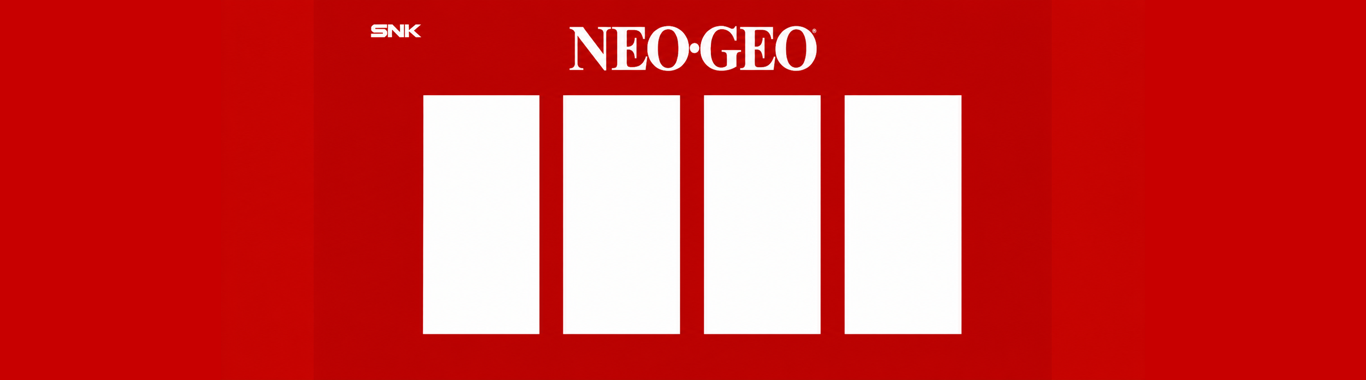
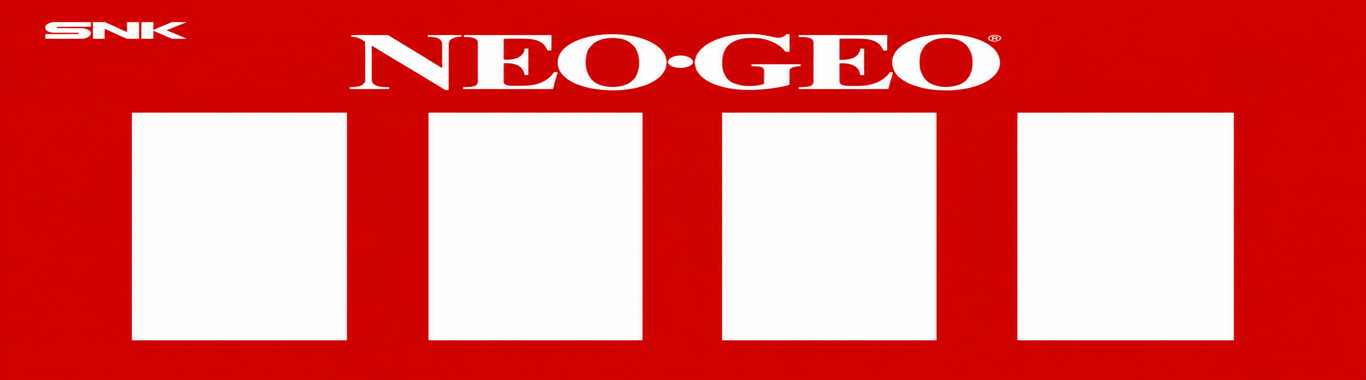
Widen Neo Geo four-slot artwork windows

diff --git a/marqueemark.py b/marqueemark.py
@@ -114,8 +114,8 @@ BUILTIN_LAYOUTS = {
                         "windows": [[1053, 36, 231, 306]]},
     "neogeo-four-slot": {"id": "neogeo-four-slot", "name": "Neo Geo 4 Slot", "base": "neogeo-four-slot.png",
                           "base_source": "builtin", "background_type": "image", "background_color": "#000000",
-                          "windows": [[424, 96, 114, 238], [564, 96, 114, 238],
-                                      [704, 96, 114, 238], [845, 96, 114, 238]]},
+                          "windows": [[132, 114, 213, 225], [430, 114, 212, 225],
+                                      [723, 114, 212, 225], [1019, 114, 213, 225]]},
     # A diagnostic, not a normal cabinet template. Its image is deliberately
     # 420px tall so panels with a different visible height can be measured.
     "viewport-test": {"id": "viewport-test", "name": "Advanced: Viewport Height Test", "base": "ultrawide-viewport-test.png",
